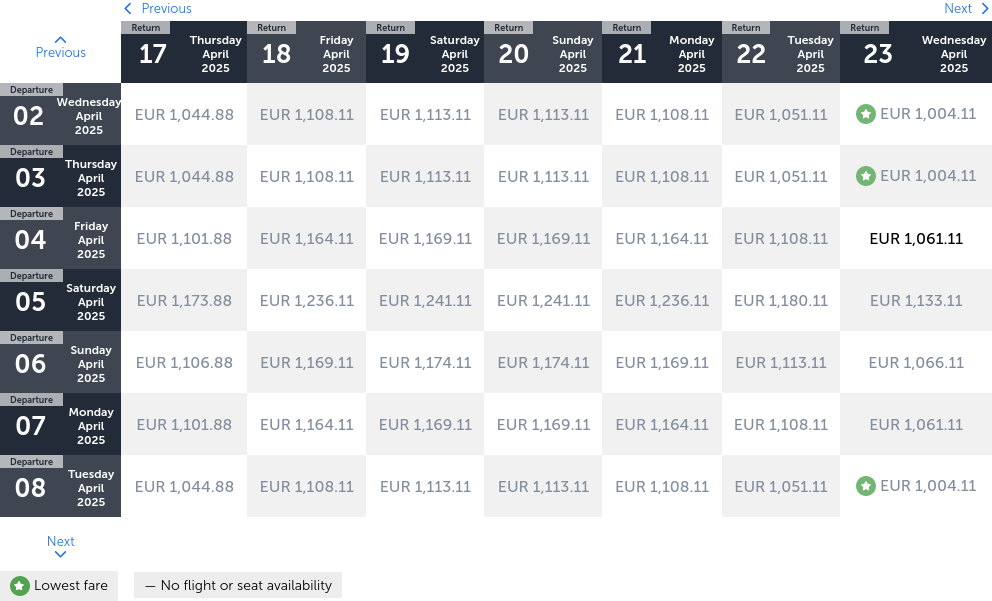
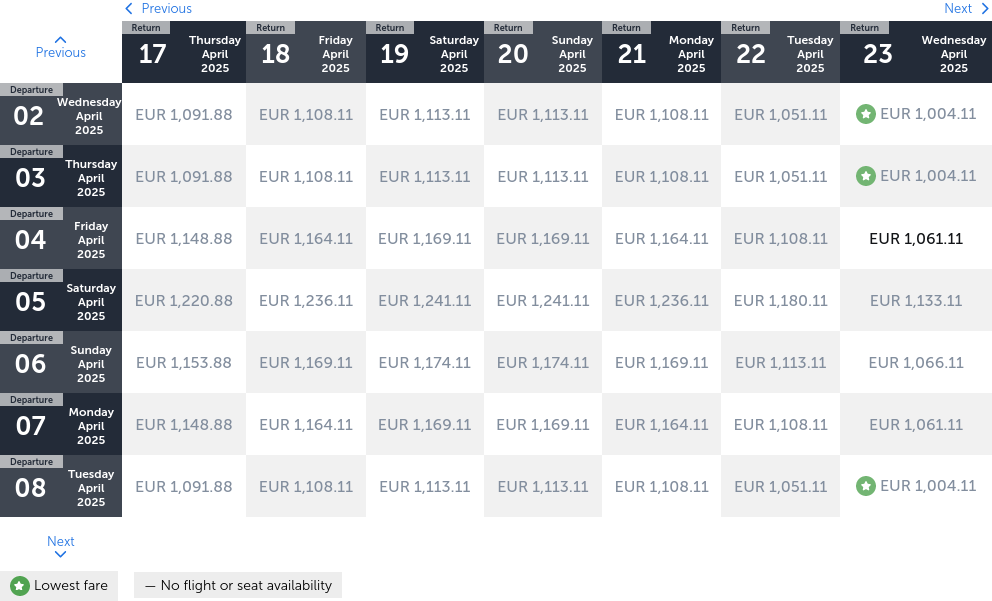
Latest scraping taiwan: Tue Jun 25 04:39:28 UTC 2024

diff --git a/scrapes/taiwan/turkish-airlines.md b/scrapes/taiwan/turkish-airlines.md
@@ -2,13 +2,13 @@
 | --- | --- |     |     |     |     |     | --- | --- | --- | --- | --- | --- |
 | Previous | Return<br><br>17<br><br>Thursday<br><br>April<br><br>2025 | Return<br><br>18<br><br>Friday<br><br>April<br><br>2025 | Return<br><br>19<br><br>Saturday<br><br>April<br><br>2025 | Return<br><br>20<br><br>Sunday<br><br>April<br><br>2025 | Return<br><br>21<br><br>Monday<br><br>April<br><br>2025 | Return<br><br>22<br><br>Tuesday<br><br>April<br><br>2025 | Return<br><br>23<br><br>Wednesday<br><br>April<br><br>2025 |
 | --- | --- | --- | --- | --- | --- | --- | --- |
-| Departure<br><br>02<br><br>Wednesday<br><br>April<br><br>2025 | EUR1,044.88 | EUR1,108.11 | EUR1,113.11 | EUR1,113.11 | EUR1,108.11 | EUR1,051.11 | EUR1,004.11 |
-| Departure<br><br>03<br><br>Thursday<br><br>April<br><br>2025 | EUR1,044.88 | EUR1,108.11 | EUR1,113.11 | EUR1,113.11 | EUR1,108.11 | EUR1,051.11 | EUR1,004.11 |
-| Departure<br><br>04<br><br>Friday<br><br>April<br><br>2025 | EUR1,101.88 | EUR1,164.11 | EUR1,169.11 | EUR1,169.11 | EUR1,164.11 | EUR1,108.11 | EUR1,061.11 |
-| Departure<br><br>05<br><br>Saturday<br><br>April<br><br>2025 | EUR1,173.88 | EUR1,236.11 | EUR1,241.11 | EUR1,241.11 | EUR1,236.11 | EUR1,180.11 | EUR1,133.11 |
-| Departure<br><br>06<br><br>Sunday<br><br>April<br><br>2025 | EUR1,106.88 | EUR1,169.11 | EUR1,174.11 | EUR1,174.11 | EUR1,169.11 | EUR1,113.11 | EUR1,066.11 |
-| Departure<br><br>07<br><br>Monday<br><br>April<br><br>2025 | EUR1,101.88 | EUR1,164.11 | EUR1,169.11 | EUR1,169.11 | EUR1,164.11 | EUR1,108.11 | EUR1,061.11 |
-| Departure<br><br>08<br><br>Tuesday<br><br>April<br><br>2025 | EUR1,044.88 | EUR1,108.11 | EUR1,113.11 | EUR1,113.11 | EUR1,108.11 | EUR1,051.11 | EUR1,004.11 |
+| Departure<br><br>02<br><br>Wednesday<br><br>April<br><br>2025 | EUR1,091.88 | EUR1,108.11 | EUR1,113.11 | EUR1,113.11 | EUR1,108.11 | EUR1,051.11 | EUR1,004.11 |
+| Departure<br><br>03<br><br>Thursday<br><br>April<br><br>2025 | EUR1,091.88 | EUR1,108.11 | EUR1,113.11 | EUR1,113.11 | EUR1,108.11 | EUR1,051.11 | EUR1,004.11 |
+| Departure<br><br>04<br><br>Friday<br><br>April<br><br>2025 | EUR1,148.88 | EUR1,164.11 | EUR1,169.11 | EUR1,169.11 | EUR1,164.11 | EUR1,108.11 | EUR1,061.11 |
+| Departure<br><br>05<br><br>Saturday<br><br>April<br><br>2025 | EUR1,220.88 | EUR1,236.11 | EUR1,241.11 | EUR1,241.11 | EUR1,236.11 | EUR1,180.11 | EUR1,133.11 |
+| Departure<br><br>06<br><br>Sunday<br><br>April<br><br>2025 | EUR1,153.88 | EUR1,169.11 | EUR1,174.11 | EUR1,174.11 | EUR1,169.11 | EUR1,113.11 | EUR1,066.11 |
+| Departure<br><br>07<br><br>Monday<br><br>April<br><br>2025 | EUR1,148.88 | EUR1,164.11 | EUR1,169.11 | EUR1,169.11 | EUR1,164.11 | EUR1,108.11 | EUR1,061.11 |
+| Departure<br><br>08<br><br>Tuesday<br><br>April<br><br>2025 | EUR1,091.88 | EUR1,108.11 | EUR1,113.11 | EUR1,113.11 | EUR1,108.11 | EUR1,051.11 | EUR1,004.11 |
 | Next |
 | Lowest fare— No flight or seat availability |     |     |     |     |     |     |     |     |     |
 
